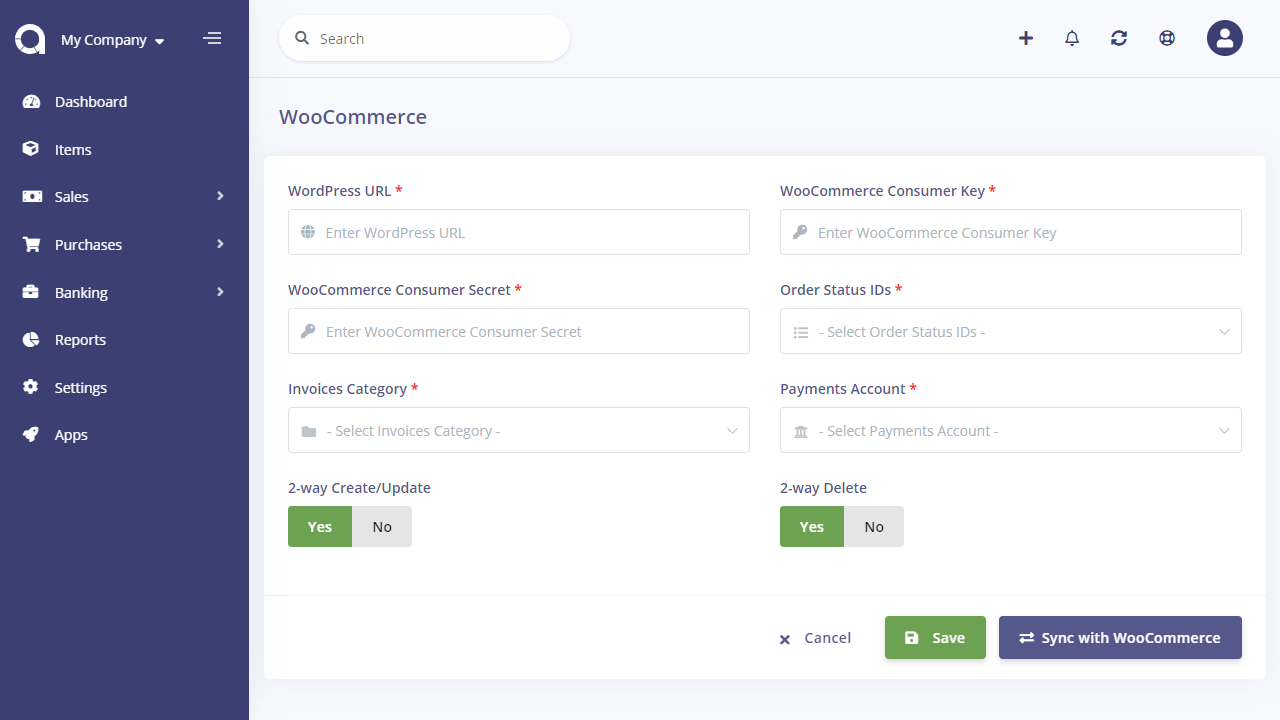
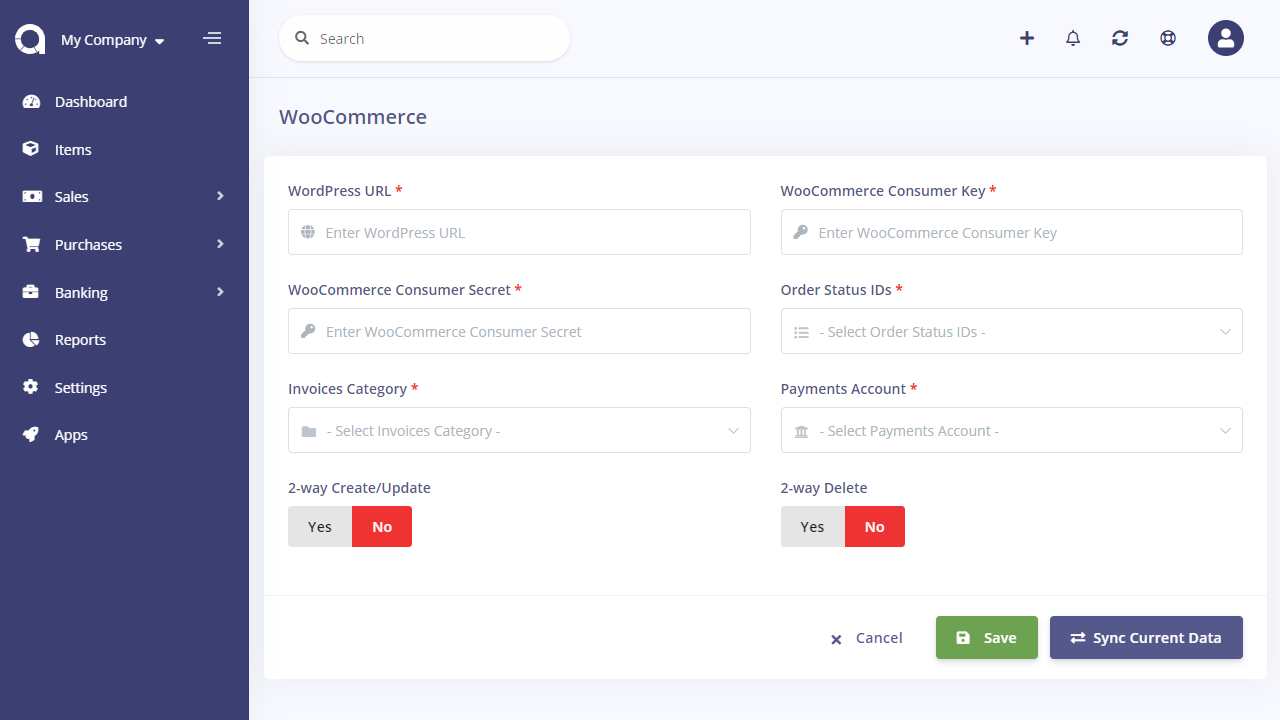
opencart woocommerce

diff --git a/en/app-manual/ecommerce/woocommerce.md b/en/app-manual/ecommerce/woocommerce.md
@@ -21,7 +21,7 @@ After entering the Akaunting URL, you should get the WooCommerce API keys. Make 
 
 ### 3) Akaunting App Settings
 
-Akaunting app will get and send data automatically between Akaunting and WooCommerce. In order to get the current data after first installation, you can click on the Sync with WooCommerce button. It's not required for future data.
+Akaunting app will get and send data automatically between Akaunting and WooCommerce. In order to get the current data after first installation, you can click on the *Sync Current Data* button. It's not required for future data.
 
 **WordPress URL**: The full path of your WordPress installation without wp-admin or wp-login parts. For example: https://my-wordpress-domain.com
 

diff --git a/en/app-manual/ecommerce/opencart.md b/en/app-manual/ecommerce/opencart.md
@@ -19,7 +19,7 @@ After installation, go to *Extensions > Extensions* page and filter Modules. In 
 
 ### 3) Akaunting App Settings
 
-Akaunting app will get and send data automatically between Akaunting and OpenCart. In order to get the current data after first installation, you can click on the Sync with OpenCart button. It's not required for future data.
+Akaunting app will get and send data automatically between Akaunting and OpenCart. In order to get the current data after first installation, you can click on the *Sync Current Data* button. It's not required for future data.
 
 **OpenCart URL**: The full path of your OpenCart installation without wp-admin or wp-login parts. For example: https://my-opencart-domain.com
 
